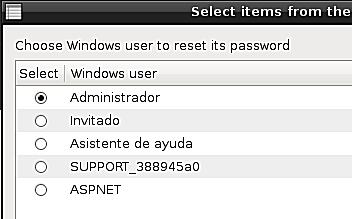
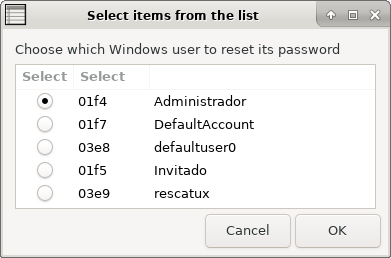
winpass: Updated and completed documentation to 2019 gui.

diff --git a/plugins/winpass/local_doc.html b/plugins/winpass/local_doc.html
@@ -11,30 +11,61 @@ Choose your language.
   <li><a href="#english">English</a></li>
 </ul>
 
-<a name="english">Reset Windows NT, 200x, XP, Vista and Seven password - Rescapp - Documentation</a>
+<a name="english">Reset Windows NT, 200x, XP, Vista, Seven and 10 password - Rescapp - Documentation</a>
 
 <ul>
   <li>
-  <b>Step 1</b><p></p>Rescapp searches for partitions on your drive with system32/config/sam files on them.
+  <b>Step 1</b><p></p>Rescapp searches for Windows System partitions on your drive.
   </li>
   <li>
   <b>Step 2</b><p></p>If such partitions have been found, Rescapp displays a list of the partitions. At the same time you are prompted:<p></p>
-  <i>Which partition?</i><p></p> You are supposed to choose your Windows partition, (you will probably only see one) and press the OK button.
+  <i>Which Windows partition?</i><p></p> You are supposed to choose your Windows partition, (you will probably only see one) and press the OK button.
   </li>
 <p></p><IMG SRC="images/winpass_001_partition.png"><p></p>
+
+
   <li>
-  <b>Step 3</b><p></p>Rescapp searches for System users based on previous information.
+  <b>Step 3</b><p></p>Rescapp tries to backup your Windows registry files, on your Windows sytem.
+  </li>
+
+  <li>
+  <b>Step 4</b><p></p>You are optionally informed about the Windows registry files backup process.<p></p>You will get (if an error happens):<p></p>
+  <div style="padding: 5px; border: 6px solid green; margin: 7px;">
+  <p>
+  <b>
+  <IMG SRC="../not-documented/images/dialog-error.png">
+  [ERROR] Backup of SAM directory went wrong.
+  </b>
+  </p>
+  </div>
+  </li>
+
+  <li>
+  <b>Step 5</b><p></p>Rescapp searches for System users based on previous information.
   </li>
   <li>
-  <b>Step 4</b><p></p>You are prompted:<p></p><i>Which Windows user do you want to reset the password for?</i><p></p> You are supposed to select the user whos password you want to reset.
+  <b>Step 6</b><p></p>You are prompted:<p></p><i>Which Windows user do you want to reset the password for?</i><p></p> You are supposed to select the user whose password you want to reset.
   </li>
 <p></p><IMG SRC="images/winpass_002_user.png"><p></p>
   <li>
-  <b>Step 5</b><p></p>You are informed about the windows password reset process.<p></p>You either get:<p></p><i>Windows password was reset OK! :) or</i><p></p>or<p></p><i>Failure! Windows password was not reset. Something went wrong! :(</i>
-  </li>
-<p></p><IMG SRC="images/winpass_003_success.png"><p></p>
-  <li>
-  <b>Step 6</b><p></p>A log file called <i>winpass.log.txt</i> can be found in the Desktop <i>logs</i> folder.
+  <b>Step 7</b><p></p>You are informed about the Reset Windows NT, 200x, XP, Vista, Seven and 10 password process.<p></p>You either get:<p></p>
+  <div style="padding: 5px; border: 6px solid green; margin: 7px;">
+  <p>
+  <b>
+  <IMG SRC="../not-documented/images/dialog-ok-apply.png">
+  [SUCCESS] Windows password was reset OK! :)
+  </b>
+  </p>
+  </div>
+  or
+  <div style="padding: 5px; border: 6px solid green; margin: 7px;">
+  <p>
+  <b>
+  <IMG SRC="../not-documented/images/dialog-error.png">
+  [ERROR] Windows password was not reset. Something went wrong! :(
+  </b>
+  </p>
+  </div>
   </li>
 </ul>
 
